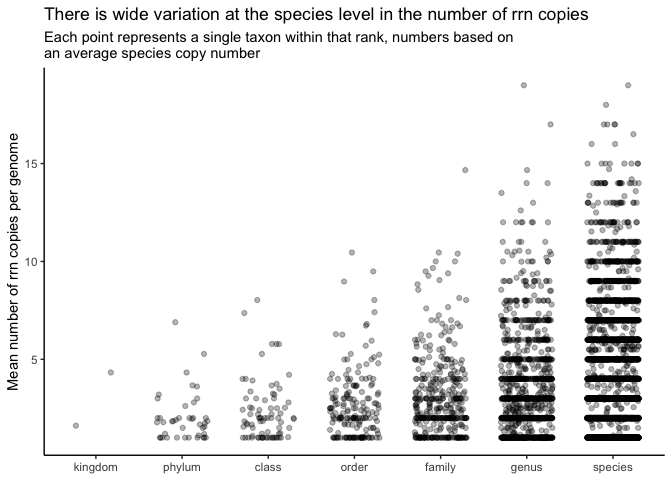
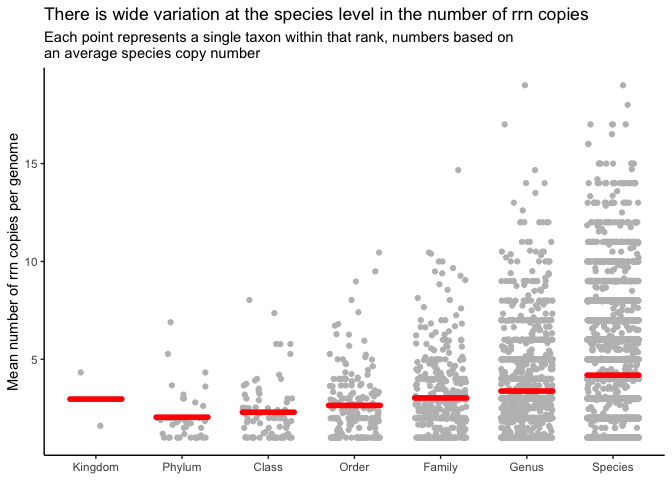
Add line segment to cloud of points to indicate average, closes #29

diff --git a/exploratory/2020-10-05-rrn-copy-number.md b/exploratory/2020-10-05-rrn-copy-number.md
@@ -41,14 +41,28 @@ number of genomes in each species.
         group_by(rank, taxon) %>%
         summarize(mean_rrns = mean(mean_rrns), .groups="drop")
 
+    mean_of_means <- rank_taxon_rrns %>%
+        group_by(rank) %>%
+        summarize(mean_mean_rrns = mean(mean_rrns), .groups="drop")
+
+    jitter_width <- 0.3
+    n_ranks <- nrow(mean_of_means) 
+        
     rank_taxon_rrns %>%
         ggplot(aes(x=rank, y=mean_rrns)) + 
-        geom_jitter(width=0.3, alpha=0.3) +
+        geom_jitter(width=jitter_width, color="gray") +
+        geom_segment(data=mean_of_means,
+                                 aes(x=1:n_ranks-jitter_width, xend=1:n_ranks+jitter_width,
+                                        y=mean_mean_rrns, yend=mean_mean_rrns),
+                             color="red", group=1, size=2, lineend="round",
+                             inherit.aes=FALSE) + 
         theme_classic() +
         labs(x=NULL, 
                  y="Mean number of rrn copies per genome",
                  title="There is wide variation at the species level in the number of rrn copies",
-                 subtitle="Each point represents a single taxon within that rank, numbers based on\nan average species copy number")
+                 subtitle="Each point represents a single taxon within that rank, numbers based on\nan average species copy number") +
+        scale_x_discrete(breaks=c("kingdom", "phylum", "class", "order", "family", "genus", "species"),
+                                         labels=c("Kingdom", "Phylum", "Class", "Order", "Family", "Genus", "Species"))
 
 ![](2020-10-05-rrn-copy-number_files/figure-gfm/unnamed-chunk-2-1.png)<!-- -->
 
